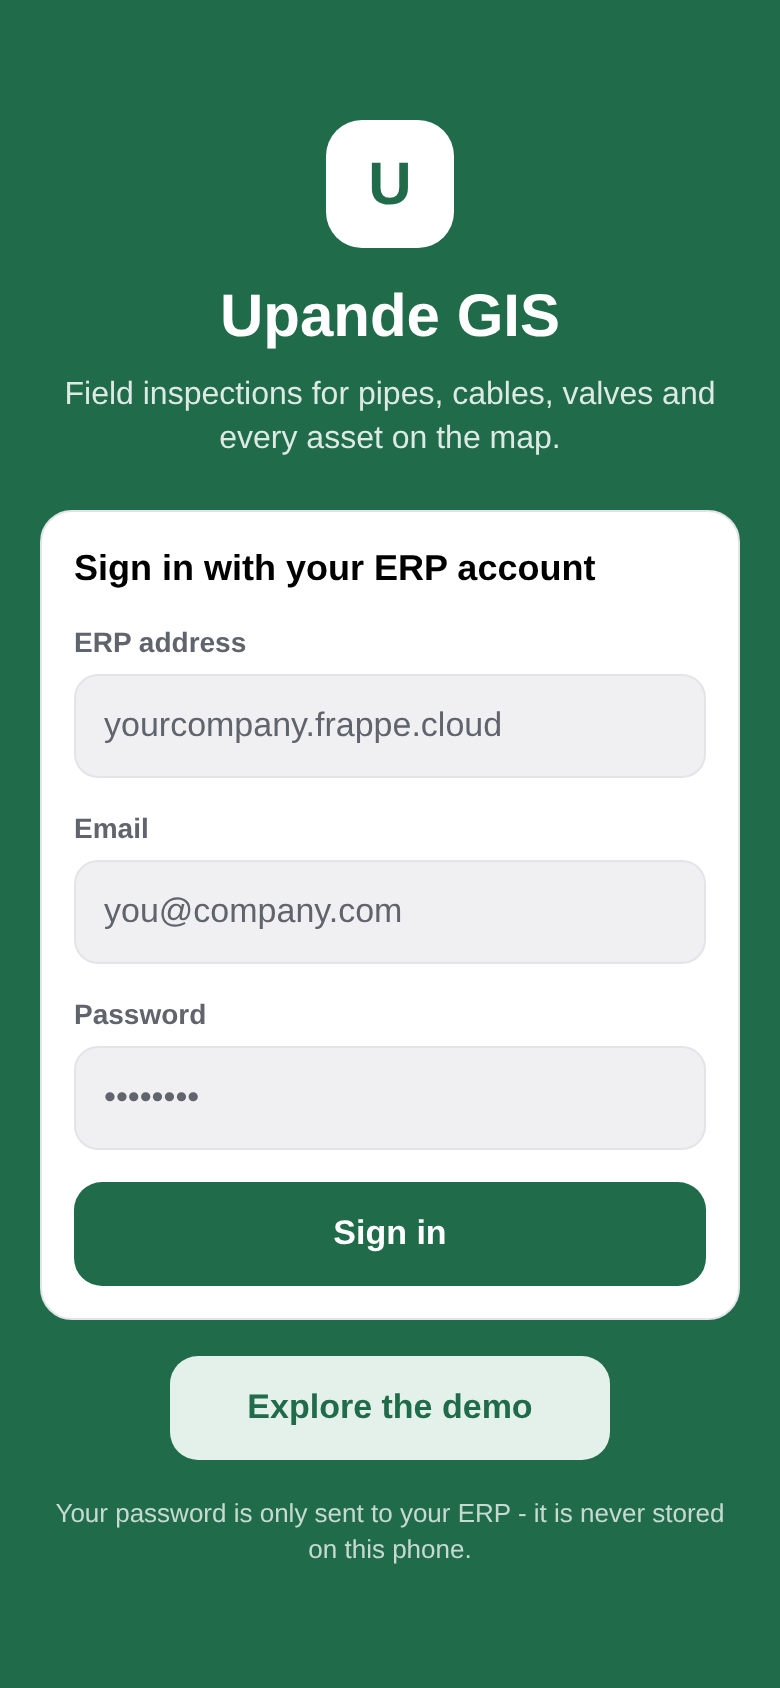
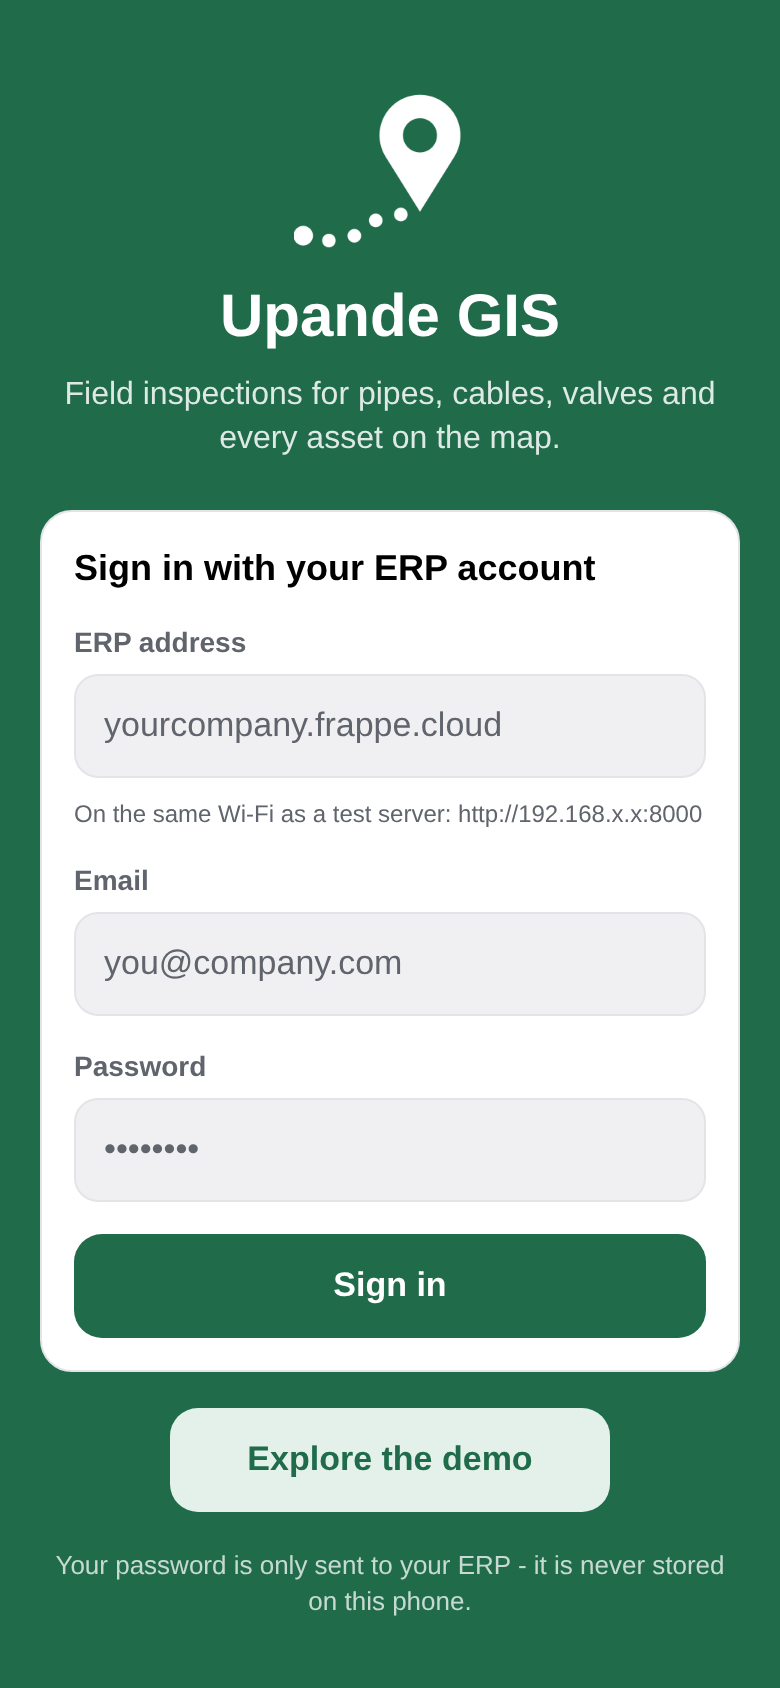
Login shows the new Upande GIS mark; refresh screenshots

diff --git a/src/app/login.tsx b/src/app/login.tsx
@@ -1,3 +1,4 @@
+import { Image } from 'expo-image';
 import { useState } from 'react';
 import { KeyboardAvoidingView, Platform, ScrollView, StyleSheet, View } from 'react-native';
 import { SafeAreaView } from 'react-native-safe-area-context';
@@ -42,11 +43,7 @@ export default function Login() {
       <KeyboardAvoidingView style={{ flex: 1 }} behavior={Platform.OS === 'ios' ? 'padding' : undefined}>
         <ScrollView contentContainerStyle={styles.scroll} keyboardShouldPersistTaps="handled">
           <View style={styles.hero}>
-            <View style={[styles.logo, { backgroundColor: theme.brandText }]}>
-              <T size={30} weight="800" color={theme.brand}>
-                U
-              </T>
-            </View>
+            <Image source={require('@/assets/images/splash-icon.png')} style={styles.logo} contentFit="contain" accessibilityIgnoresInvertColors />
             <T size={30} weight="800" color={theme.brandText}>
               Upande GIS
             </T>
@@ -120,5 +117,5 @@ export default function Login() {
 const styles = StyleSheet.create({
   scroll: { flexGrow: 1, justifyContent: 'center', padding: 20, gap: 18, maxWidth: 520, width: '100%', alignSelf: 'center' },
   hero: { alignItems: 'center', gap: 8, marginBottom: 6 },
-  logo: { width: 64, height: 64, borderRadius: 18, alignItems: 'center', justifyContent: 'center', marginBottom: 6 },
+  logo: { width: 96, height: 96 },
 });
